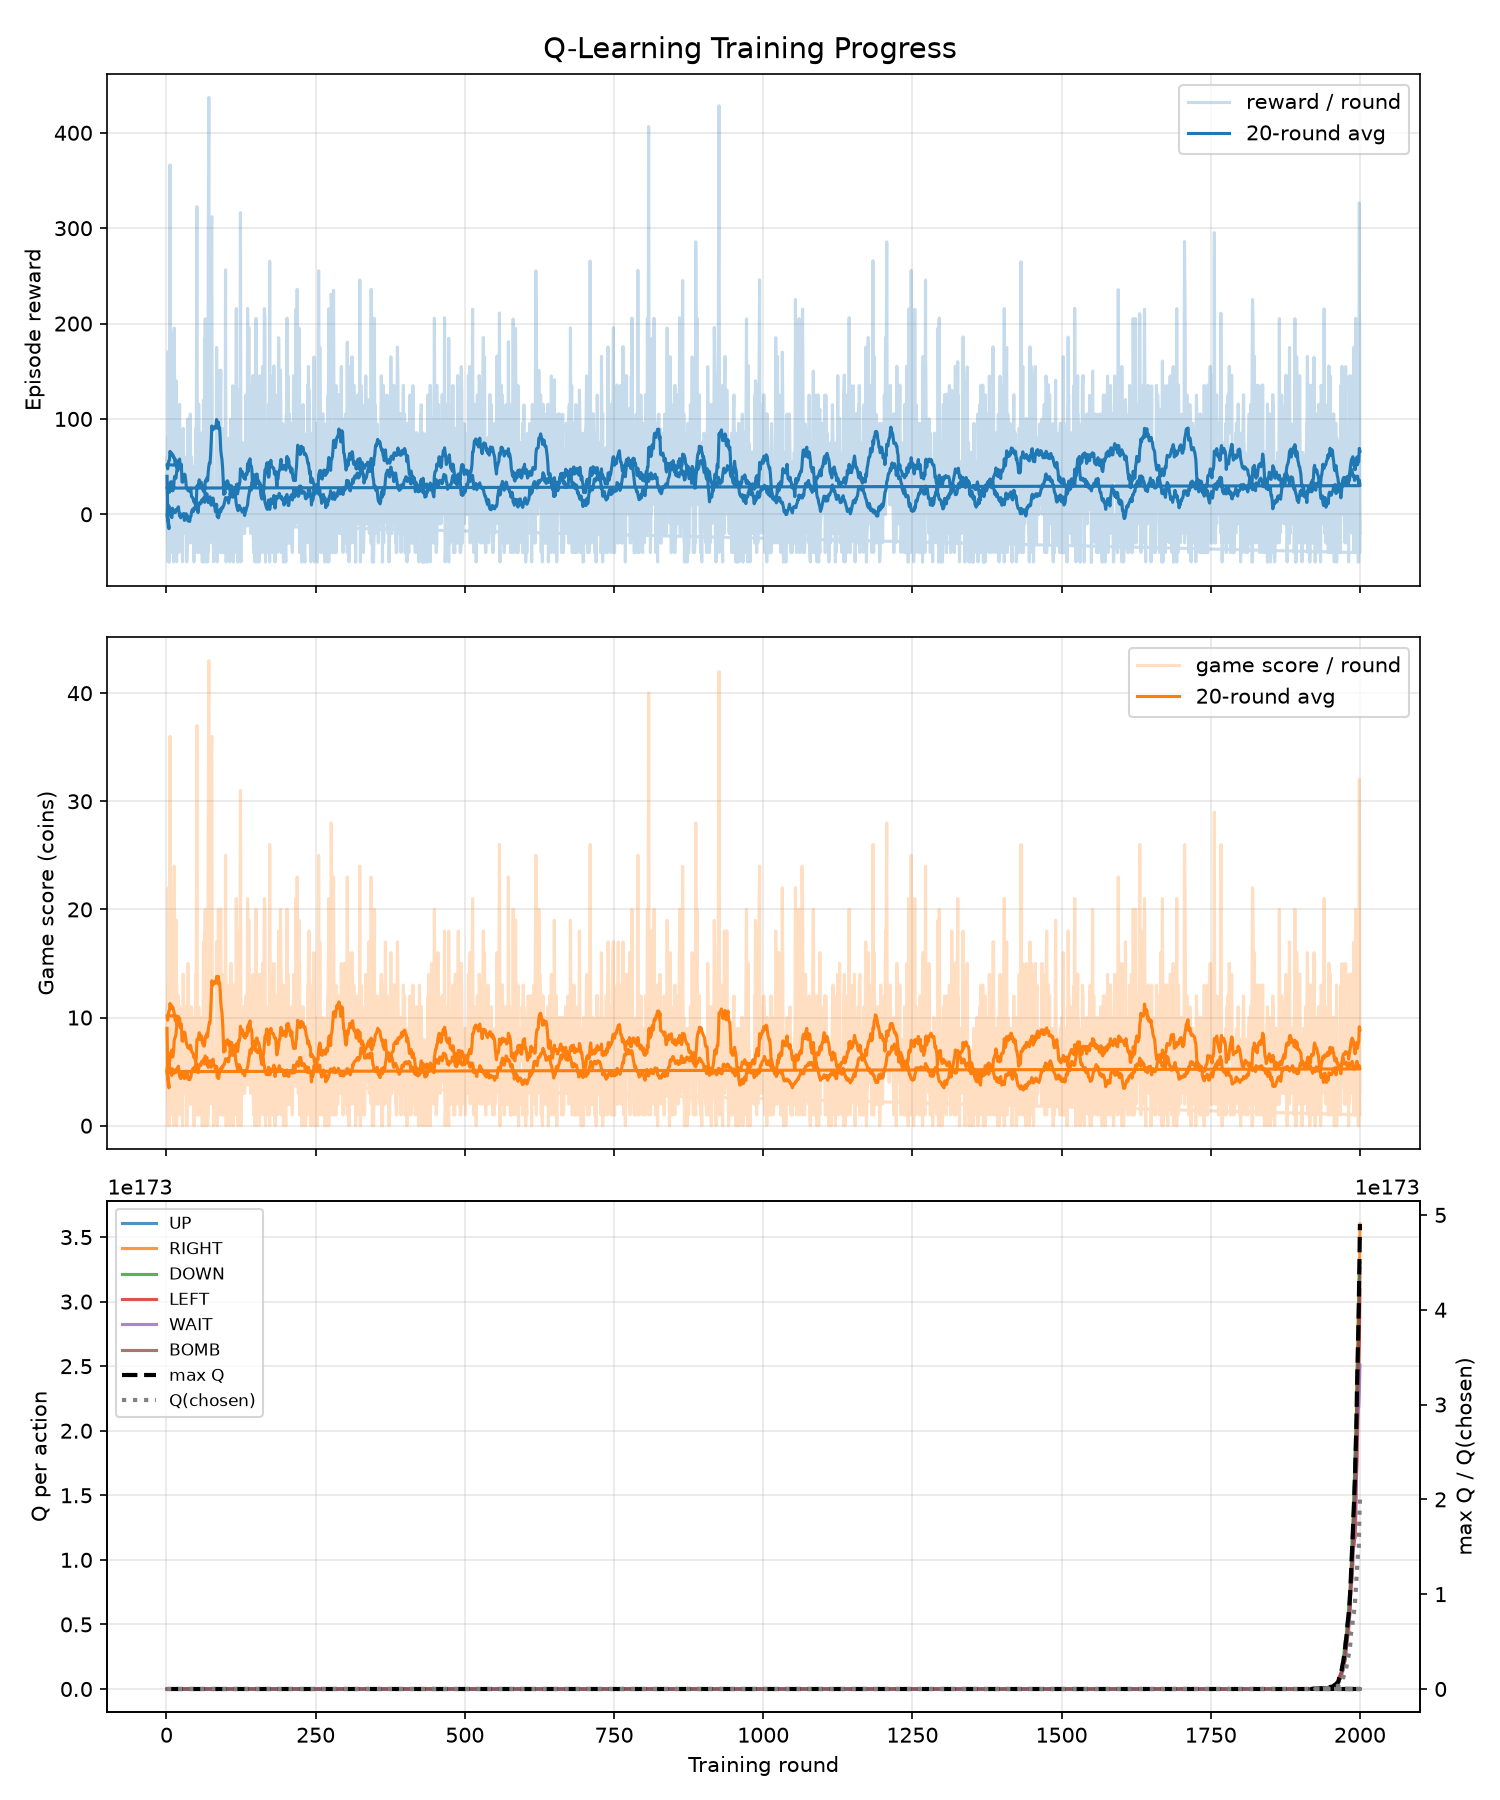
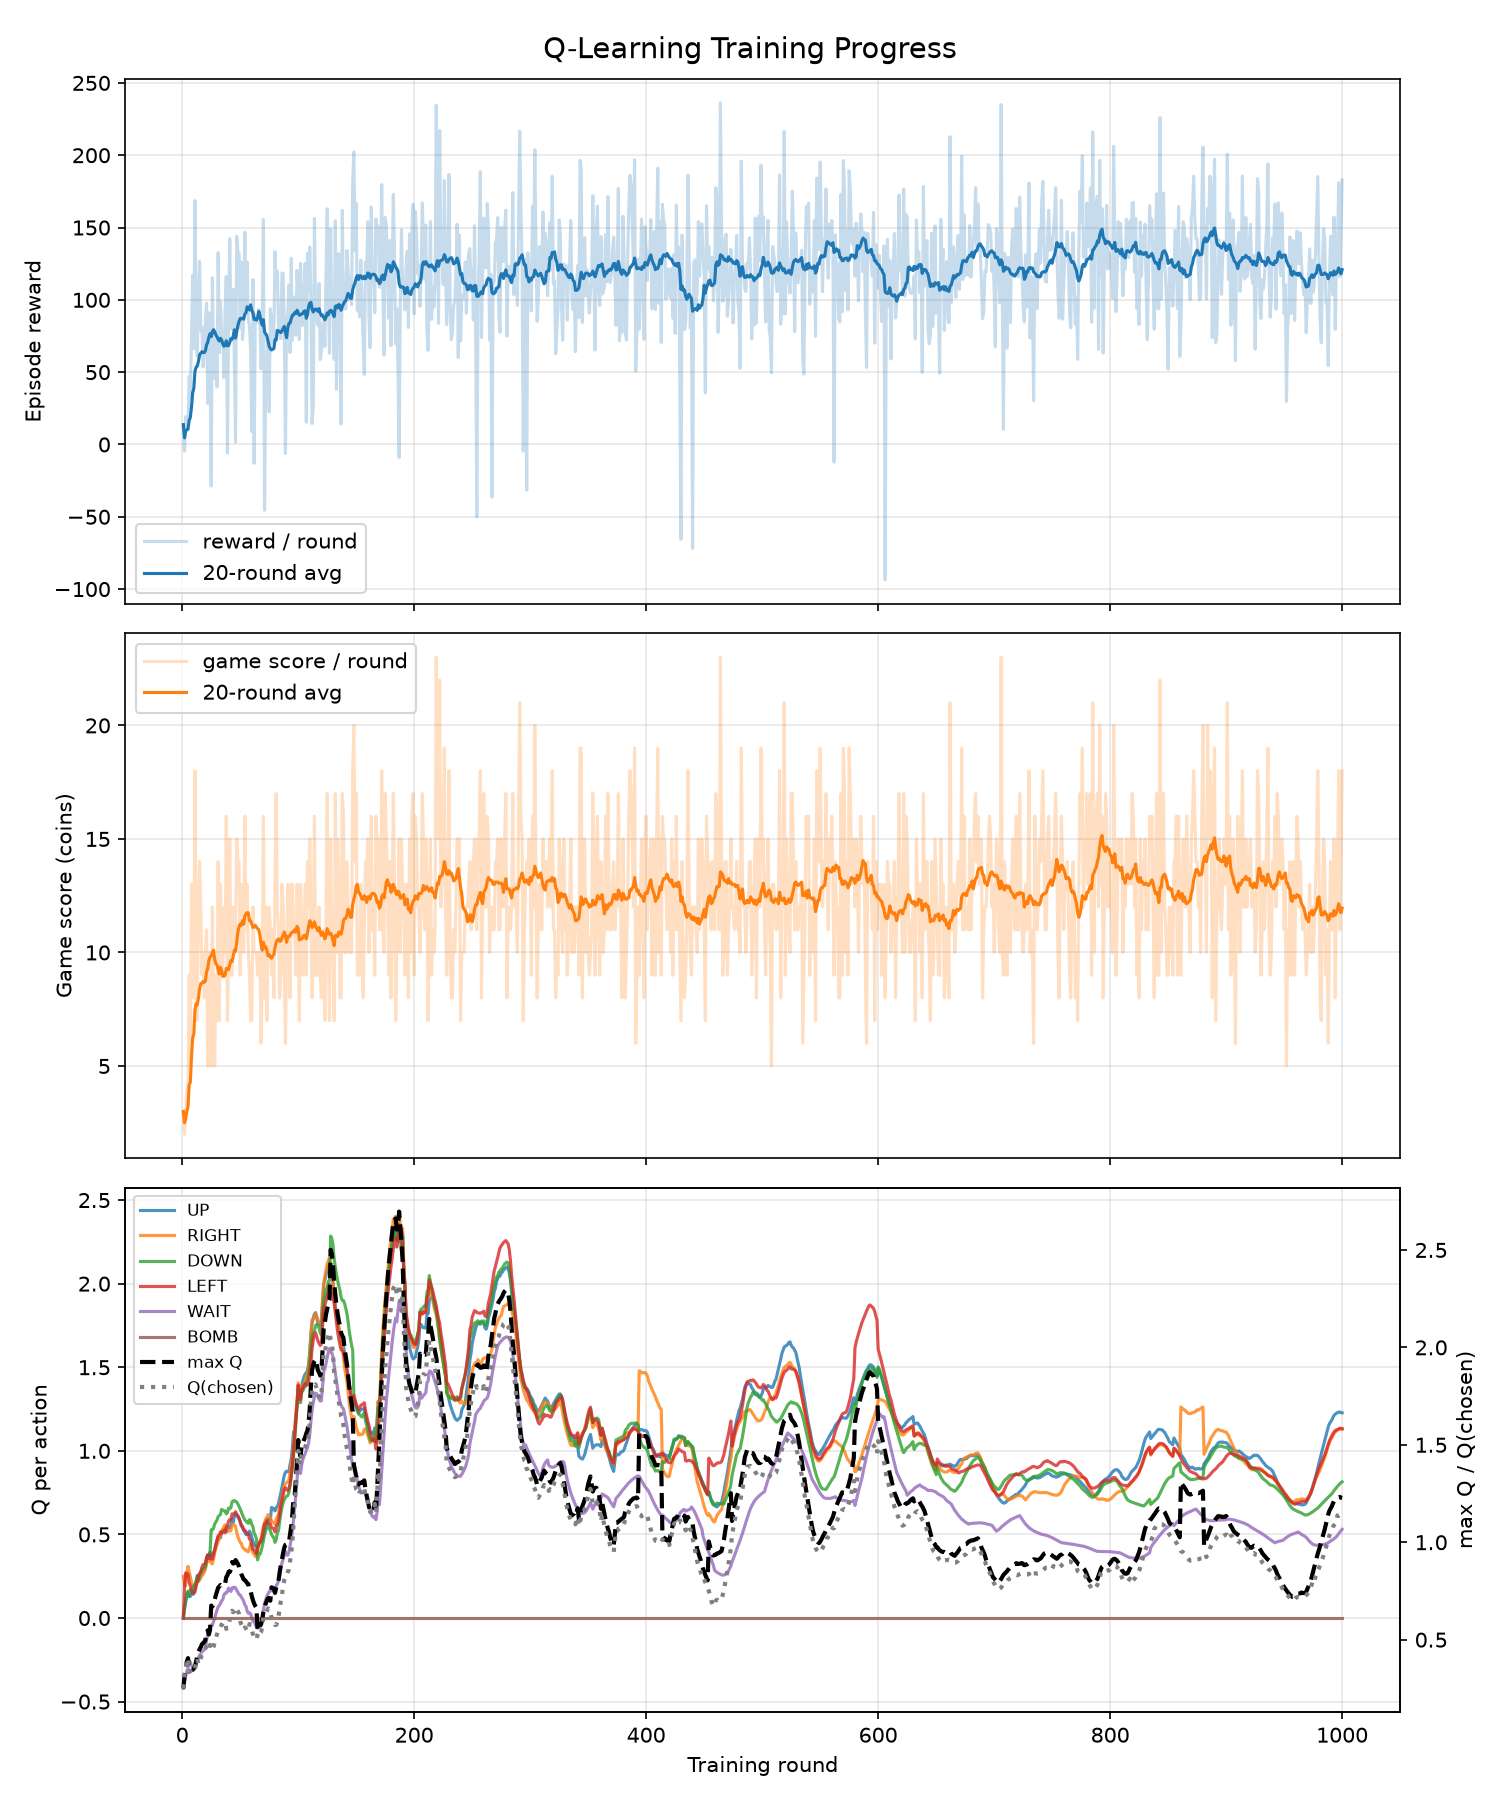
standard q-learning

diff --git a/agent_code/my_agent/callbacks.py b/agent_code/my_agent/callbacks.py
@@ -12,7 +12,22 @@ ACTIONS = ['UP', 'RIGHT', 'DOWN', 'LEFT', 'WAIT', 'BOMB']
 #Actions to index 
 ACTIONS_TO_IDX = {a: i for i, a in enumerate(ACTIONS)}
 
-N_FEATURES = 11
+N_FEATURES = 10
+DIRS = [(0, -1), (1, 0), (0, 1), (-1, 0)]
+
+def blast_timers(field, bombs):
+    """Per tile: steps until a bomb blast hits it (np.inf if no bomb reaches it)."""
+    danger = np.full(field.shape, np.inf)
+    for (bx, by), t in bombs:
+        danger[bx, by] = min(danger[bx, by], t)
+        for dx, dy in DIRS:
+            for k in range(1, s.BOMB_POWER + 1):
+                i, j = bx + dx * k, by + dy * k
+                if field[i, j] == -1:
+                    break
+                danger[i, j] = min(danger[i, j], t)
+    return danger
+
 
 def setup(self):
     """
@@ -85,7 +100,7 @@ def look_for_targets(free_space, start, targets, logger=None):
         # Add unexplored free neighboring tiles to the queue in a random order
         x, y = current
         neighbors = [(x, y) for (x, y) in [(x + 1, y), (x - 1, y), (x, y + 1), (x, y - 1)] if free_space[x, y]]
-        shuffle(neighbors)
+        #shuffle(neighbors)
         for neighbor in neighbors:
             if neighbor not in parent_dict:
                 frontier.append(neighbor)
@@ -93,6 +108,7 @@ def look_for_targets(free_space, start, targets, logger=None):
                 dist_so_far[neighbor] = dist_so_far[current] + 1
     if logger: logger.debug(f'Suitable target found at {best}')
     # Determine the first step towards the best found target tile
+
     current = best
     while True:
         if parent_dict[current] == start: return current
@@ -108,11 +124,12 @@ def get_valid_actions(bomb_history, game_state:dict):
     bomb_xys = [xy for (xy, t) in bombs]
     others = [xy for (n, s, b, xy) in game_state['others']]
     coins = game_state['coins']
-    bomb_map = np.ones(arena.shape) * 5
-    for (xb, yb), t in bombs:
-        for (i, j) in [(xb + h, yb) for h in range(-3, 4)] + [(xb, yb + h) for h in range(-3, 4)]:
-            if (0 < i < bomb_map.shape[0]) and (0 < j < bomb_map.shape[1]):
-                bomb_map[i, j] = min(bomb_map[i, j], t)
+    # bomb_map = np.ones(arena.shape) * 5
+    # for (xb, yb), t in bombs:
+    #     for (i, j) in [(xb + h, yb) for h in range(-3, 4)] + [(xb, yb + h) for h in range(-3, 4)]:
+    #         if (0 < i < bomb_map.shape[0]) and (0 < j < bomb_map.shape[1]):
+    #             bomb_map[i, j] = min(bomb_map[i, j], t)
+    bomb_map = blast_timers(arena, bombs)
 
     directions = [(x,y), (x+1, y), (x-1, y), (x,y+1), (x,y-1)]
     valid_tiles, valid_actions = [],[]
@@ -121,6 +138,7 @@ def get_valid_actions(bomb_history, game_state:dict):
         if( (arena[d] ==0 )and 
             (game_state["explosion_map"][d] < 1) and 
             (bomb_map[d]>0)and 
+            (bomb_map[d] == np.inf or bomb_map[x, y] < np.inf) and
             (not d in others) and 
             (not d in bomb_xys)
            ):
@@ -143,8 +161,10 @@ def _bfs_direction_name(game_state, features):
     _, _, _, (x, y) = game_state['self']
     labels = ['UP', 'RIGHT', 'DOWN', 'LEFT']
     for i, name in enumerate(labels):
-        if features[2 + i] > 0.5:
+        if features[i] > 0.5:
             return name
+        if features[5 + i] > 0.5:
+            return 'ESCAPE ' + name
     return 'none'
 
 
@@ -248,56 +268,94 @@ def state_to_features(game_state: dict) -> np.array:
     coins = game_state["coins"]
     explosion_map = game_state["explosion_map"]
     max_dist = max(s.COLS, s.ROWS)
+    danger = blast_timers(field, game_state["bombs"])
     free_space = (field == 0) & (explosion_map < 1)
-    features = [x/max_dist, y/max_dist]
+    for (_, _, _, other_xy) in game_state["others"]:
+        free_space[other_xy] = False
+    for (bomb_xy, _) in game_state["bombs"]:
+        free_space[bomb_xy] = False
 
+    start = (x, y)
+    in_danger = danger[x, y] < np.inf
 
-    ## find the nearest coin location
-    # if coins: 
-    #     nearest = min(coins, key = lambda c:abs(c[0]-x)+ abs(c[1]-y))
-    #     cx, cy = nearest 
-    #     features += [(cx-x)/max_dist, (cy-y)/max_dist, (abs(cx-x)+ abs(cy-y))/max_dist]
-    # else:
-    #     features += [0.0,0.0,0.0]
-
-    start = (x,y)
-
-    if coins:
-        first_step = look_for_targets(free_space, start, coins)
+    if in_danger:
+        # head for the nearest tile no bomb can reach
+        targets = [tuple(p) for p in np.argwhere(free_space & (danger == np.inf))]
+        first_step = look_for_targets(free_space, start, targets)
     else:
-        first_step  = None
+        # head for the nearest coin without walking through blast zones
+        free_space = free_space & (danger == np.inf)
+        first_step = look_for_targets(free_space, start, coins)
 
-    # Order must match  walkability loop: UP, RIGHT, DOWN, LEFT
-    bfs_features = [0.0, 0.0, 0.0, 0.0]
-
+    # Order: UP, RIGHT, DOWN, LEFT
+    direction = [0.0, 0.0, 0.0, 0.0]
     if first_step == (x, y - 1):
-        bfs_features[0] = 1.0   # UP
+        direction[0] = 1.0
     elif first_step == (x + 1, y):
-        bfs_features[1] = 1.0   # RIGHT
+        direction[1] = 1.0
     elif first_step == (x, y + 1):
-        bfs_features[2] = 1.0   # DOWN
+        direction[2] = 1.0
     elif first_step == (x - 1, y):
-        bfs_features[3] = 1.0   # LEFT
-    # else: all zeros (already on coin, no coins, or stuck)
+        direction[3] = 1.0
+    block = direction + [0.0 if any(direction) else 1.0]
 
-    features.extend(bfs_features)
-    ## check where agent can move
-    ## UP, RIGHT, DOWN, LEFT
-    for dx, dy in ([(0,-1),(1,0),(0,1),(-1,0)]):
-        nx, ny = x+dx, y+dy
-        if (0<= nx < field.shape[0] and 0 <= ny < field.shape[1]):
-            ## if nx,ny is walkable and in the field and is not in the current explosion zone
-            walkable =  field[nx, ny] ==0 and explosion_map[nx,ny]<1
-            if(walkable):
-                features.append(1.0)
-            else:
-                features.append(0.0)
-        else:
-            features.append(0.0)
-
-    ## check if any bombs are left on the field
-    features.append(1.0 if bombs_left else 0.0)
+    # features 0-4: safe (coin direction, none); 5-9: in danger (escape direction, none)
+    features = [0.0] * 5 + block if in_danger else block + [0.0] * 5
     return np.array(features, dtype=np.float32)
+    # free_space = (field == 0) & (explosion_map < 1)
+    # for (_, _, _, other_xy) in game_state["others"]:
+    #     free_space[other_xy] = False
+
+
+    # ## find the nearest coin location
+    # # if coins: 
+    # #     nearest = min(coins, key = lambda c:abs(c[0]-x)+ abs(c[1]-y))
+    # #     cx, cy = nearest 
+    # #     features += [(cx-x)/max_dist, (cy-y)/max_dist, (abs(cx-x)+ abs(cy-y))/max_dist]
+    # # else:
+    # #     features += [0.0,0.0,0.0]
+
+    # start = (x,y)
+
+    # if coins:
+    #     first_step = look_for_targets(free_space, start, coins)
+    # else:
+    #     first_step  = None
+
+    # # Order must match  walkability loop: UP, RIGHT, DOWN, LEFT
+    # bfs_features = [0.0, 0.0, 0.0, 0.0]
+
+    # if first_step == (x, y - 1):
+    #     bfs_features[0] = 1.0   # UP
+    # elif first_step == (x + 1, y):
+    #     bfs_features[1] = 1.0   # RIGHT
+    # elif first_step == (x, y + 1):
+    #     bfs_features[2] = 1.0   # DOWN
+    # elif first_step == (x - 1, y):
+    #     bfs_features[3] = 1.0   # LEFT
+    # # else: all zeros (already on coin, no coins, or stuck)
+
+    # #features.extend(bfs_features)
+    # ## check where agent can move
+    # ## UP, RIGHT, DOWN, LEFT
+    # # for dx, dy in ([(0,-1),(1,0),(0,1),(-1,0)]):
+    # #     nx, ny = x+dx, y+dy
+    # #     if (0<= nx < field.shape[0] and 0 <= ny < field.shape[1]):
+    # #         ## if nx,ny is walkable and in the field and is not in the current explosion zone
+    # #         walkable =  field[nx, ny] ==0 and explosion_map[nx,ny]<1
+    # #         if(walkable):
+    # #             features.append(1.0)
+    # #         else:
+    # #             features.append(0.0)
+    # #     else:
+    # #         features.append(0.0)
+
+    # # ## check if any bombs are left on the field
+    # # features.append(1.0 if bombs_left else 0.0)
+    # # return np.array(features, dtype=np.float32)
+    # features = bfs_features + [0.0 if any(bfs_features) else 1.0]
+    # #features = bfs_features + [1.0]   # 4 BFS one-hots + bias
+    # return np.array(features, dtype=np.float32)
 
     # # For example, you could construct several channels of equal shape, ...   
     # channels = []

diff --git a/agent_code/my_agent/train.py b/agent_code/my_agent/train.py
@@ -43,8 +43,8 @@ def setup_training(self):
     # self.transitions = deque(maxlen=TRANSITION_HISTORY_SIZE)
 
     self.transitions = deque(maxlen=10000)
-    self.alpha = 0.1  # lr
-    self.gamma = 0.99 # discount    
+    self.alpha = 0.05  # lr
+    self.gamma = 0.9 # discount    
     self.episode_reward = 0
     self.metrics_path = "training_metrics.csv"
     # Delete training_metrics.csv before a new run to start fresh.
@@ -83,15 +83,24 @@ def game_events_occurred(self, old_game_state: dict, self_action: str, new_game_
     self.logger.debug(f'Encountered game event(s) {", ".join(map(repr, events))} in step {new_game_state["step"]}')
 
     # # Idea: Add your own events to hand out rewards
-    old_dist = distance_to_nearest_coint(old_game_state)
-    new_dist = distance_to_nearest_coint(new_game_state)
+    # old_dist = distance_to_nearest_coint(old_game_state)
+    # new_dist = distance_to_nearest_coint(new_game_state)
 
-    if old_dist is not None and new_dist is not None:
-        if(new_dist < old_dist):
-            events.append("MOVED_TOWARD_COIN")
-        # elif(new_dist > old_dist):
-        #     events.append("MOVED_AWAY_FROM_COIN")
-
+    # if e.COIN_COLLECTED not in events and old_dist is not None and new_dist is not None:
+    #     if new_dist < old_dist:
+    #         events.append("MOVED_TOWARD_COIN")
+    #     elif new_dist > old_dist:
+    #         events.append("MOVED_AWAY_FROM_COIN")
+    #     # elif(new_dist > old_dist):
+    #     #     events.append("MOVED_AWAY_FROM_COIN")
+    old_features = state_to_features(old_game_state)
+    if old_features is not None:
+        if old_features[:4].max() > 0.5:
+            followed = ACTIONS_TO_IDX[self_action] == int(np.argmax(old_features[:4]))
+            events.append("MOVED_TOWARD_COIN" if followed else "MOVED_AWAY_FROM_COIN")
+        elif old_features[5:9].max() > 0.5:
+            followed = ACTIONS_TO_IDX[self_action] == int(np.argmax(old_features[5:9]))
+            events.append("FOLLOWED_ESCAPE" if followed else "IGNORED_ESCAPE")
     reward = reward_from_events(self, events)
     self.episode_reward += reward  
     done = False
@@ -171,6 +180,7 @@ def end_of_round(self, last_game_state: dict, last_action: str, events: List[str
 
     train_on_batch(self)
     self.epsilon = max(0.05, self.epsilon * 0.995)
+    self.alpha = max(0.005, self.alpha * 0.997)
     q_stats = log_q_values(self, last_game_state, last_action)
 
     _, game_score, _, _ = last_game_state["self"]
@@ -208,8 +218,11 @@ def reward_from_events(self, events: List[str]) -> int:
         e.INVALID_ACTION: -5,
         e.KILLED_SELF: -50,
         e.SURVIVED_ROUND: 5,
+        e.WAITED: -0.5,
         "MOVED_TOWARD_COIN": 0.1,
         "MOVED_AWAY_FROM_COIN": -0.1,
+        "FOLLOWED_ESCAPE": 1,
+        "IGNORED_ESCAPE": -1,
     }
     reward_sum = 0
     for event in events:
